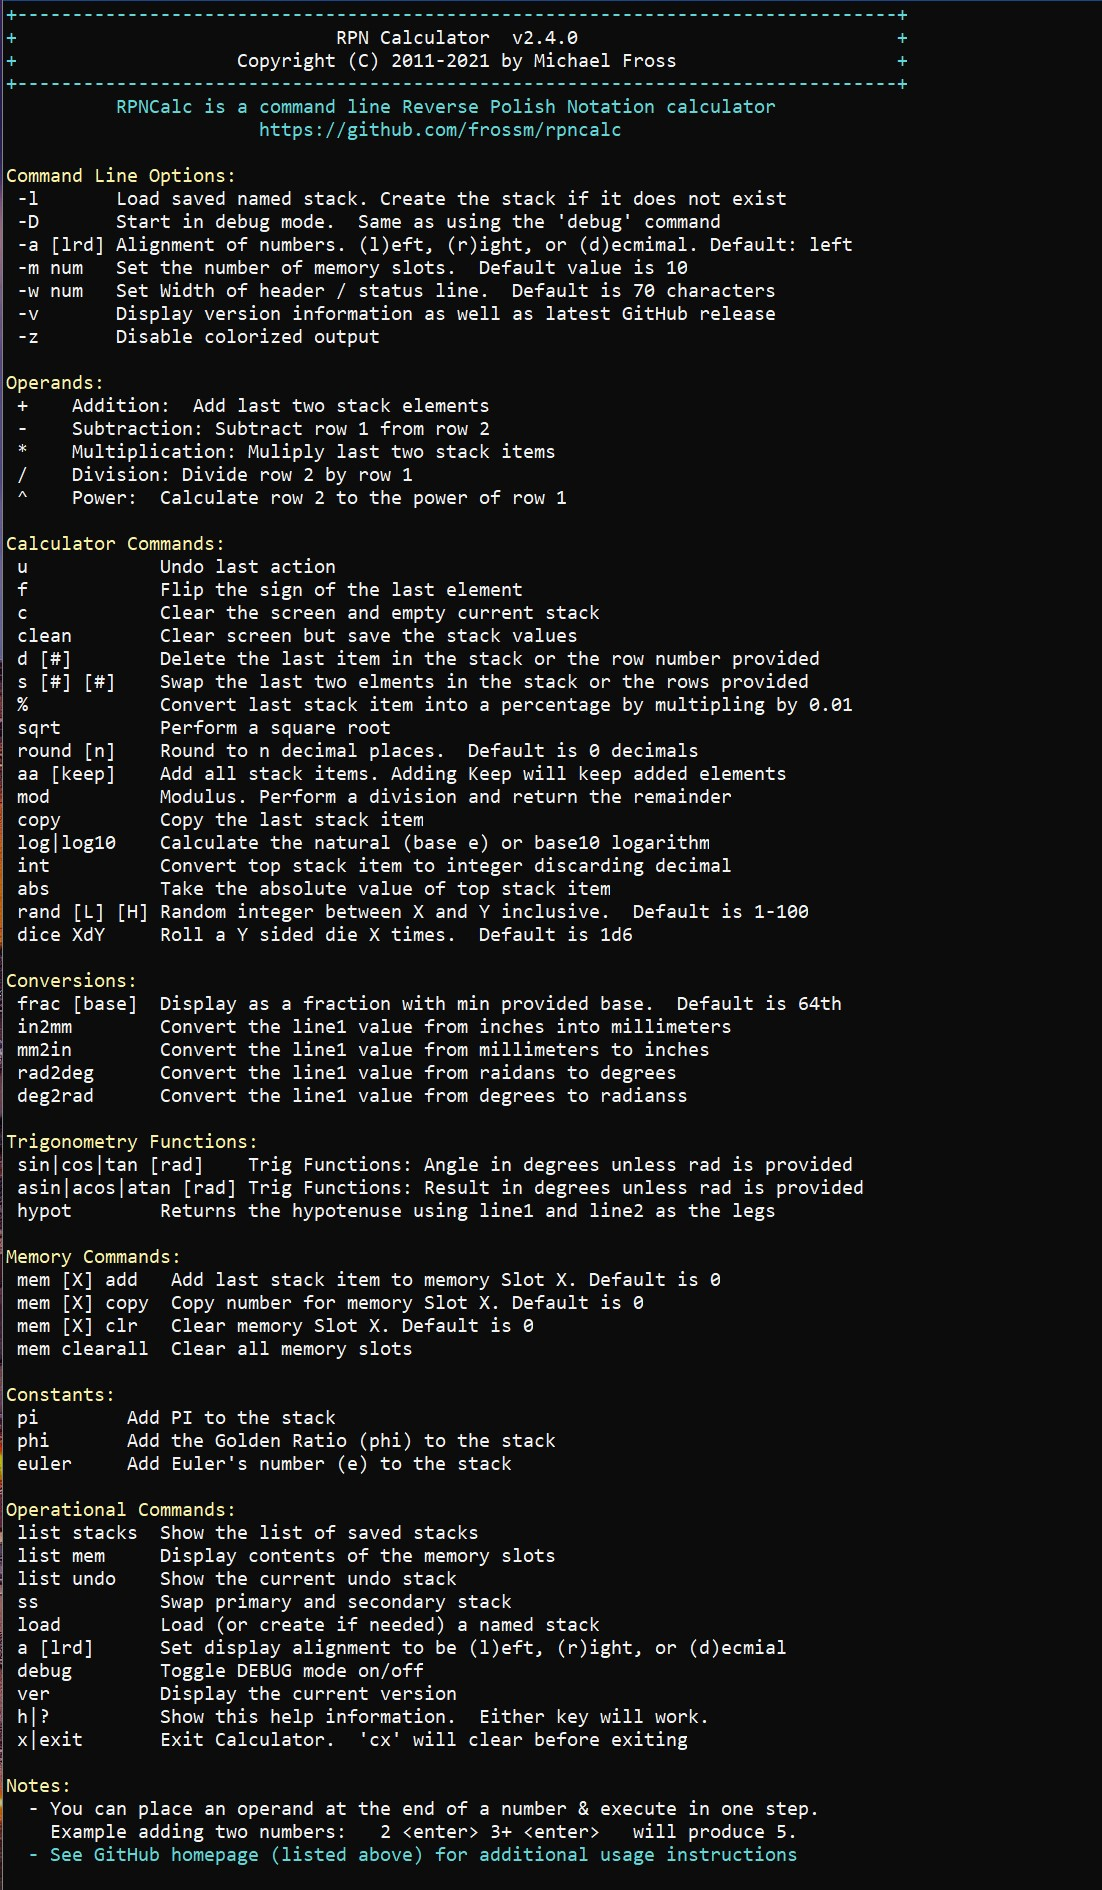
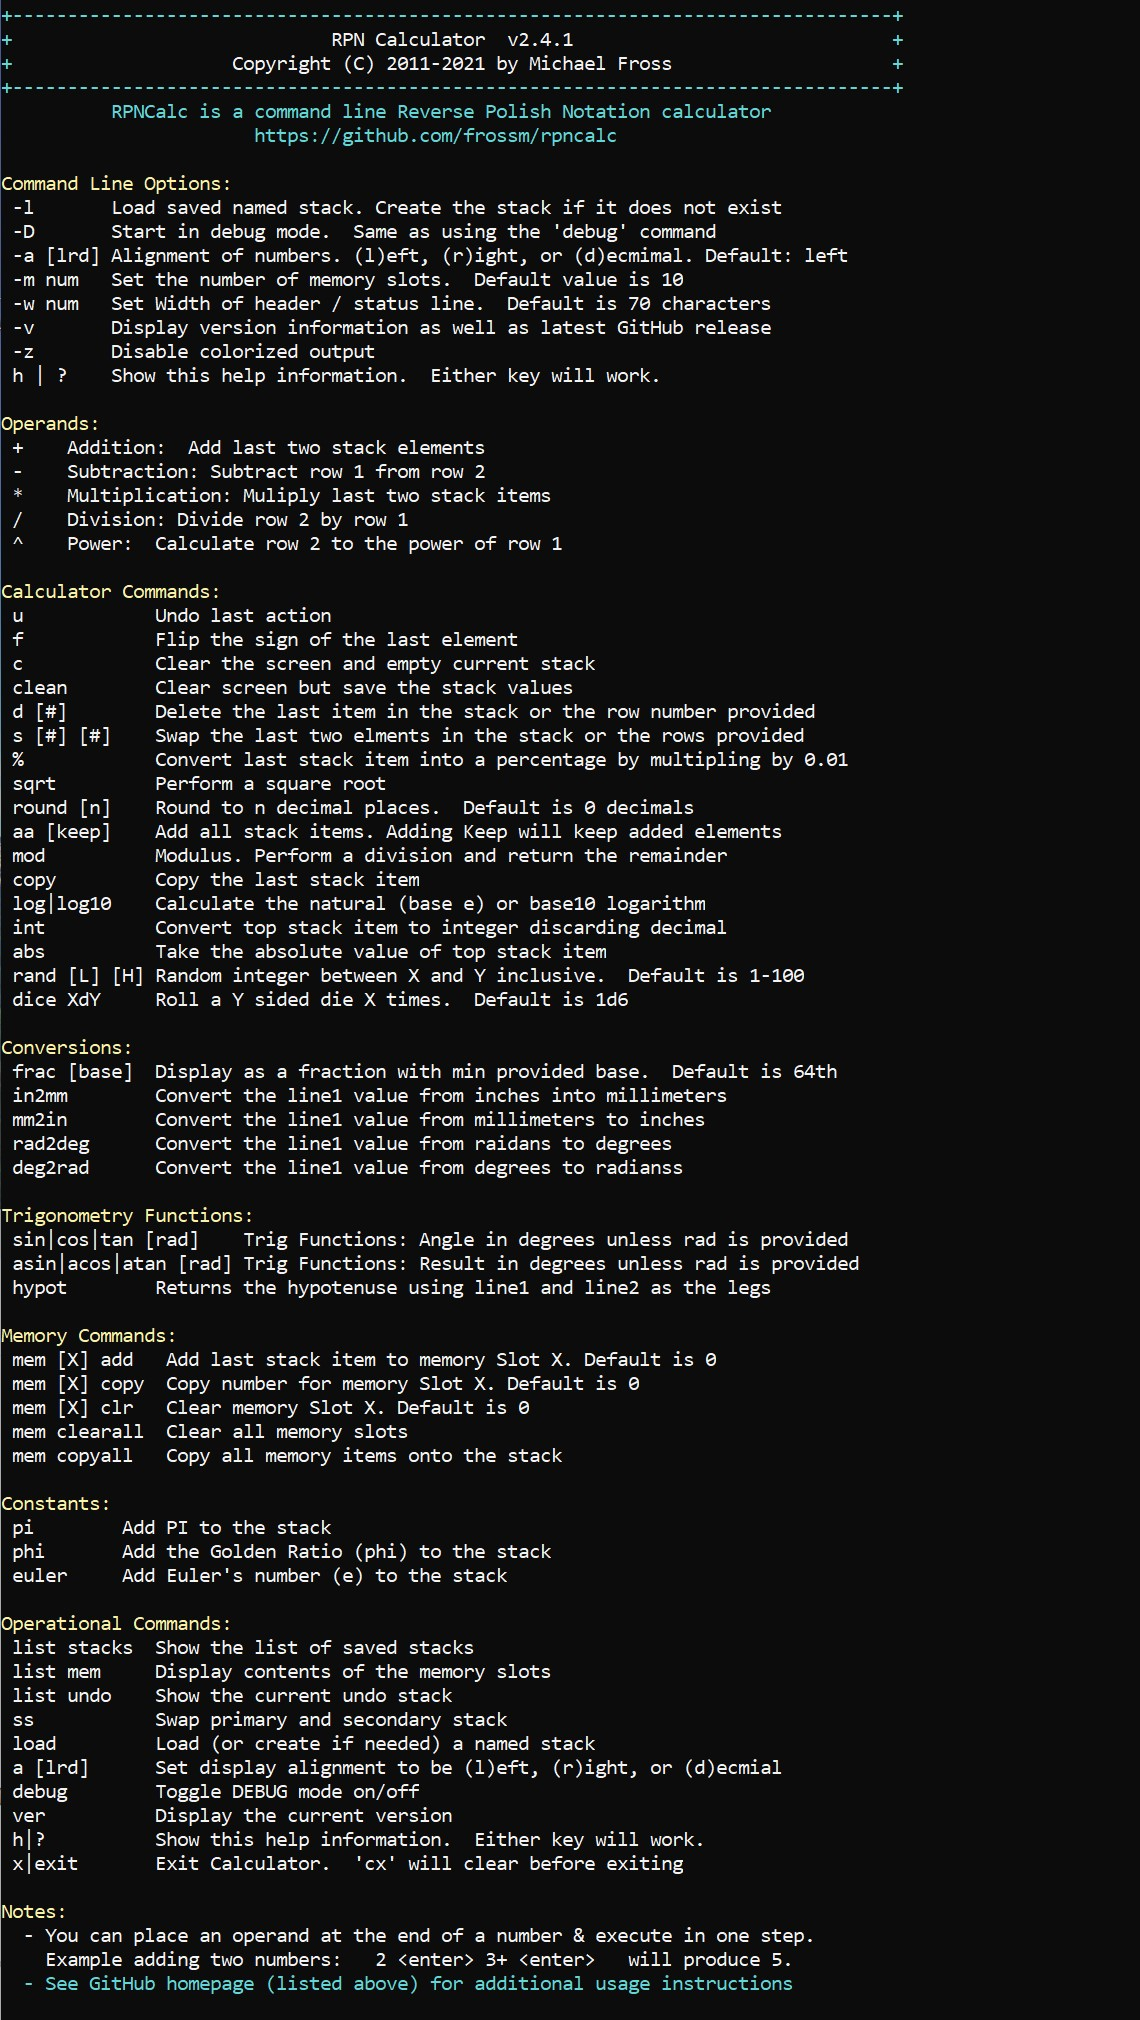
Added "mem copyall" command

Changed region(s): [[0.0, 0.0, 0.7713, 0.9989], [0.6788, 0.4683, 0.7405, 0.4995], [0.6479, 0.8741, 0.6788, 0.9053]]

diff --git a/src/main/java/org/fross/rpncalc/Help.java b/src/main/java/org/fross/rpncalc/Help.java
@@ -59,6 +59,7 @@ public class Help {
 		Output.printColorln(Ansi.Color.WHITE, " -w num   Set Width of header / status line.  Default is 70 characters");
 		Output.printColorln(Ansi.Color.WHITE, " -v       Display version information as well as latest GitHub release");
 		Output.printColorln(Ansi.Color.WHITE, " -z       Disable colorized output");
+		Output.printColorln(Ansi.Color.WHITE, " h | ?    Show this help information.  Either key will work.");
 
 		Output.printColorln(Ansi.Color.YELLOW, "\nOperands:");
 		Output.printColorln(Ansi.Color.WHITE, " +    Addition:  Add last two stack elements");
@@ -103,6 +104,7 @@ public class Help {
 		Output.printColorln(Ansi.Color.WHITE, " mem [X] copy  Copy number for memory Slot X. Default is 0");
 		Output.printColorln(Ansi.Color.WHITE, " mem [X] clr   Clear memory Slot X. Default is 0");
 		Output.printColorln(Ansi.Color.WHITE, " mem clearall  Clear all memory slots");
+		Output.printColorln(Ansi.Color.WHITE, " mem copyall   Copy all memory items onto the stack");
 
 		Output.printColorln(Ansi.Color.YELLOW, "\nConstants:");
 		Output.printColorln(Ansi.Color.WHITE, " pi        Add PI to the stack");

diff --git a/src/main/java/org/fross/rpncalc/StackOps.java b/src/main/java/org/fross/rpncalc/StackOps.java
@@ -914,6 +914,20 @@ public class StackOps {
 					Output.printColorln(Ansi.Color.RED, "Memory Slot #" + memSlot + " is empty");
 				break;
 
+			// Copy everything back onto the stack.  Lower number to stop of stack (line 1)
+			case "copyall":
+			case "recallall":
+				// Save to undo stack
+				Main.undoStack.push((Stack<Double>) Main.calcStack.clone());
+
+				Output.printColorln(Ansi.Color.CYAN, "Copying all memory items to the stack");
+				for (int i = memorySlots.length - 1; i >= 0; i--) {
+					if (memorySlots[i] != null) {
+						Main.calcStack.add(memorySlots[i]);
+					}
+				}
+				break;
+
 			default:
 				// Slot was valid number, but unknown mem command
 				Output.printColorln(Ansi.Color.RED, "ERROR: Unknown memory command: '" + argParse[1] + "'");

diff --git a/src/main/java/org/fross/rpncalc/Main.java b/src/main/java/org/fross/rpncalc/Main.java
@@ -119,7 +119,7 @@ public class Main {
 		}
 
 		// Process Command Line Options and set flags where needed
-		Getopt optG = new Getopt("RPNCalc", args, "Dl:a:m:w:vz?");
+		Getopt optG = new Getopt("RPNCalc", args, "Dl:a:m:w:vzh?");
 		while ((optionEntry = optG.getopt()) != -1) {
 			switch (optionEntry) {
 			case 'D': // Debug Mode

diff --git a/README.md b/README.md
@@ -169,6 +169,7 @@ When the second enter is pressed,  2 will be removed from the stack.  Added toge
 |mem [slot] copy|Copies the contents of memory slot provided back onto the stack.  Defaults to Slot0 if no slot number is provided.  `recall` can also be used instead of `copy`|
 |mem [slot] clr|Clear the contents of the memory slot provided.  Defaults to Slot0 if no slot is provided.  Example: `mem 2 clr`  The command `clear` can also be used instead of `clr`|
 |mem clearall|Clear the contents of all memory slots.  Not sure why this would be needed, but seems like something that should be here.  There is no need to include a SlotNumber. Note `mem clrall` will also work|
+|mem copyall|Copy all items in memory to the stack.  These will be ordered via memory slot number. i.e. Memory slot 0 will be at the top of the stack (line 1).  `recallall` will also work|
 
 ## Constants
 |Constant|Description|
